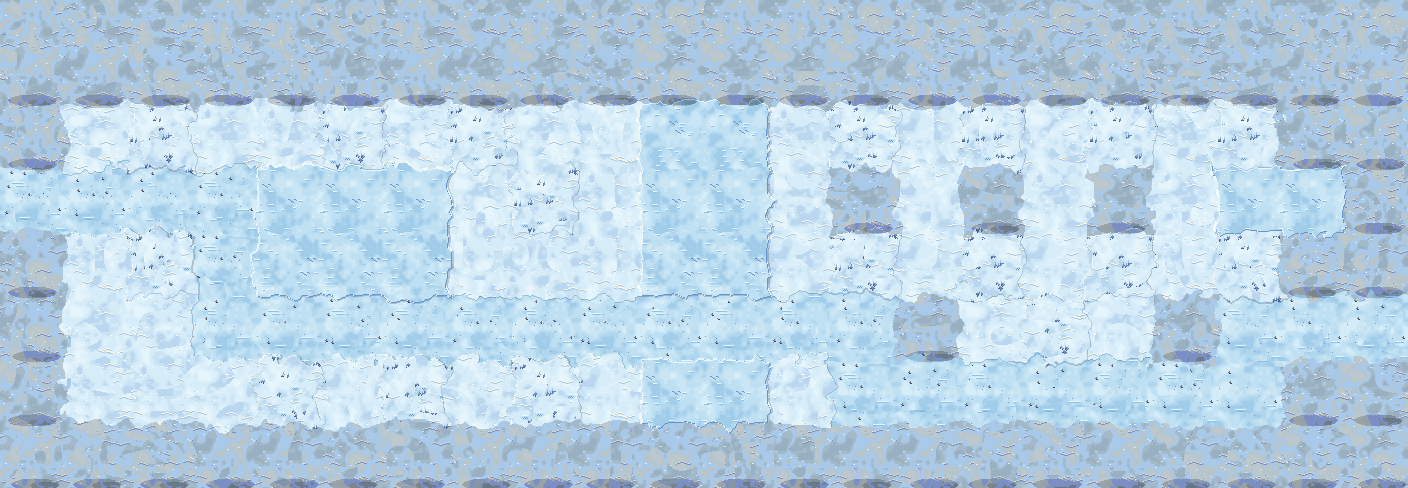
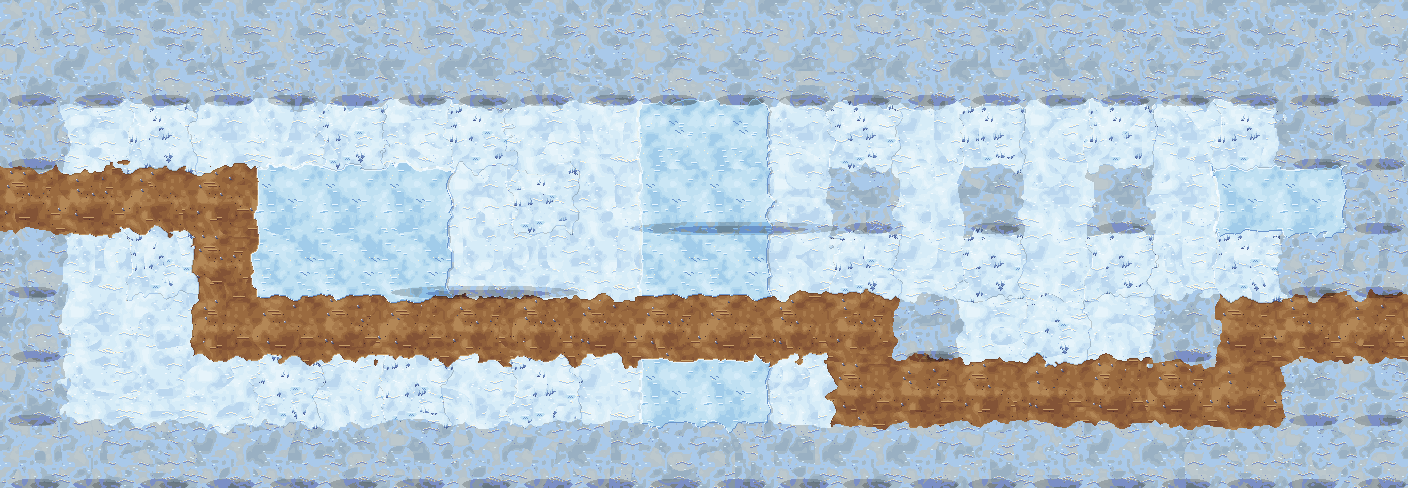
WIP landmark polish: path colours for coast and tundra, contact shadows, sprite redraws in progress
Claude-Session: https://claude.ai/code/session_01PZZqg9J4gTioHVim7F5x1u

Changed region(s): [[0.0, 0.3381, 1.0, 0.8914], [0.4375, 0.4303, 0.5938, 0.4918]]

diff --git a/claude/tile-art-v3-proposal/gen2.py b/claude/tile-art-v3-proposal/gen2.py
@@ -164,7 +164,7 @@ def ground(land, kind, seed):
             cv.put(x, y, R[2], True); cv.put(x + 2, y + 3, R[2], True)
     return cv.im
 
-PATH_RAMP = {"grassland": "litter", "forest": "sand", "coast": "sand", "tundra": "ice"}   # forest floor is already brown and tundra floor already white, so those two paths need a different colour to show
+PATH_RAMP = {"grassland": "litter", "forest": "sand", "coast": "litter", "tundra": "litter"}   # the floor of forest is already brown, of coast sand and of tundra white, so those paths take a colour that shows: pale in the forest, trodden brown on the beach and in the snow
 def pathtex(land, seed):
     """Worn path ground ('p' tiles): packed dirt in the land's own colour, ruts and pebbles; tileable like the rest."""
     rnd = random.Random(f"p2{land}{seed}"); R = RAMP[PATH_RAMP.get(land, "litter")]

diff --git a/tools/bake_trail_art.py b/tools/bake_trail_art.py
@@ -147,6 +147,9 @@ def bake(job):
             gen2.ell(bp, x * T + jit + 32 + 3, PAD + y * T + T - 4, 24, 6, 1, tw, th)
             gen2.ell(bp, x * T + jit + 32 + 12, PAD + y * T + T - 3, 14, 4, 1, tw, th)
             objs.append([x, y, spec(land, x, y, rid), jit])
+    for lx, ly, lname, ljit in lms:   # a soft contact shadow on the ground under each landmark, like the wall objects have
+        lw = gen2.LANDMARKS[lname[3:]][0]; cx, cy = lx * T + 32 + ljit, PAD + ly * T + 60
+        gen2.ell(bp, cx + 4, cy, int(lw * .36), 7, 1, tw, th); gen2.ell(bp, cx + 8, cy + 1, int(lw * .24), 4, 1, tw, th)
     q = base.convert("RGB").quantize(256, method=Image.Quantize.MEDIANCUT, dither=Image.Dither.NONE)
     path = os.path.join(IMG, "ground", f"{rid}-{si + 1}.png"); q.save(path, optimize=True)
     return rid, si, objs + [list(o) for o in lms]
